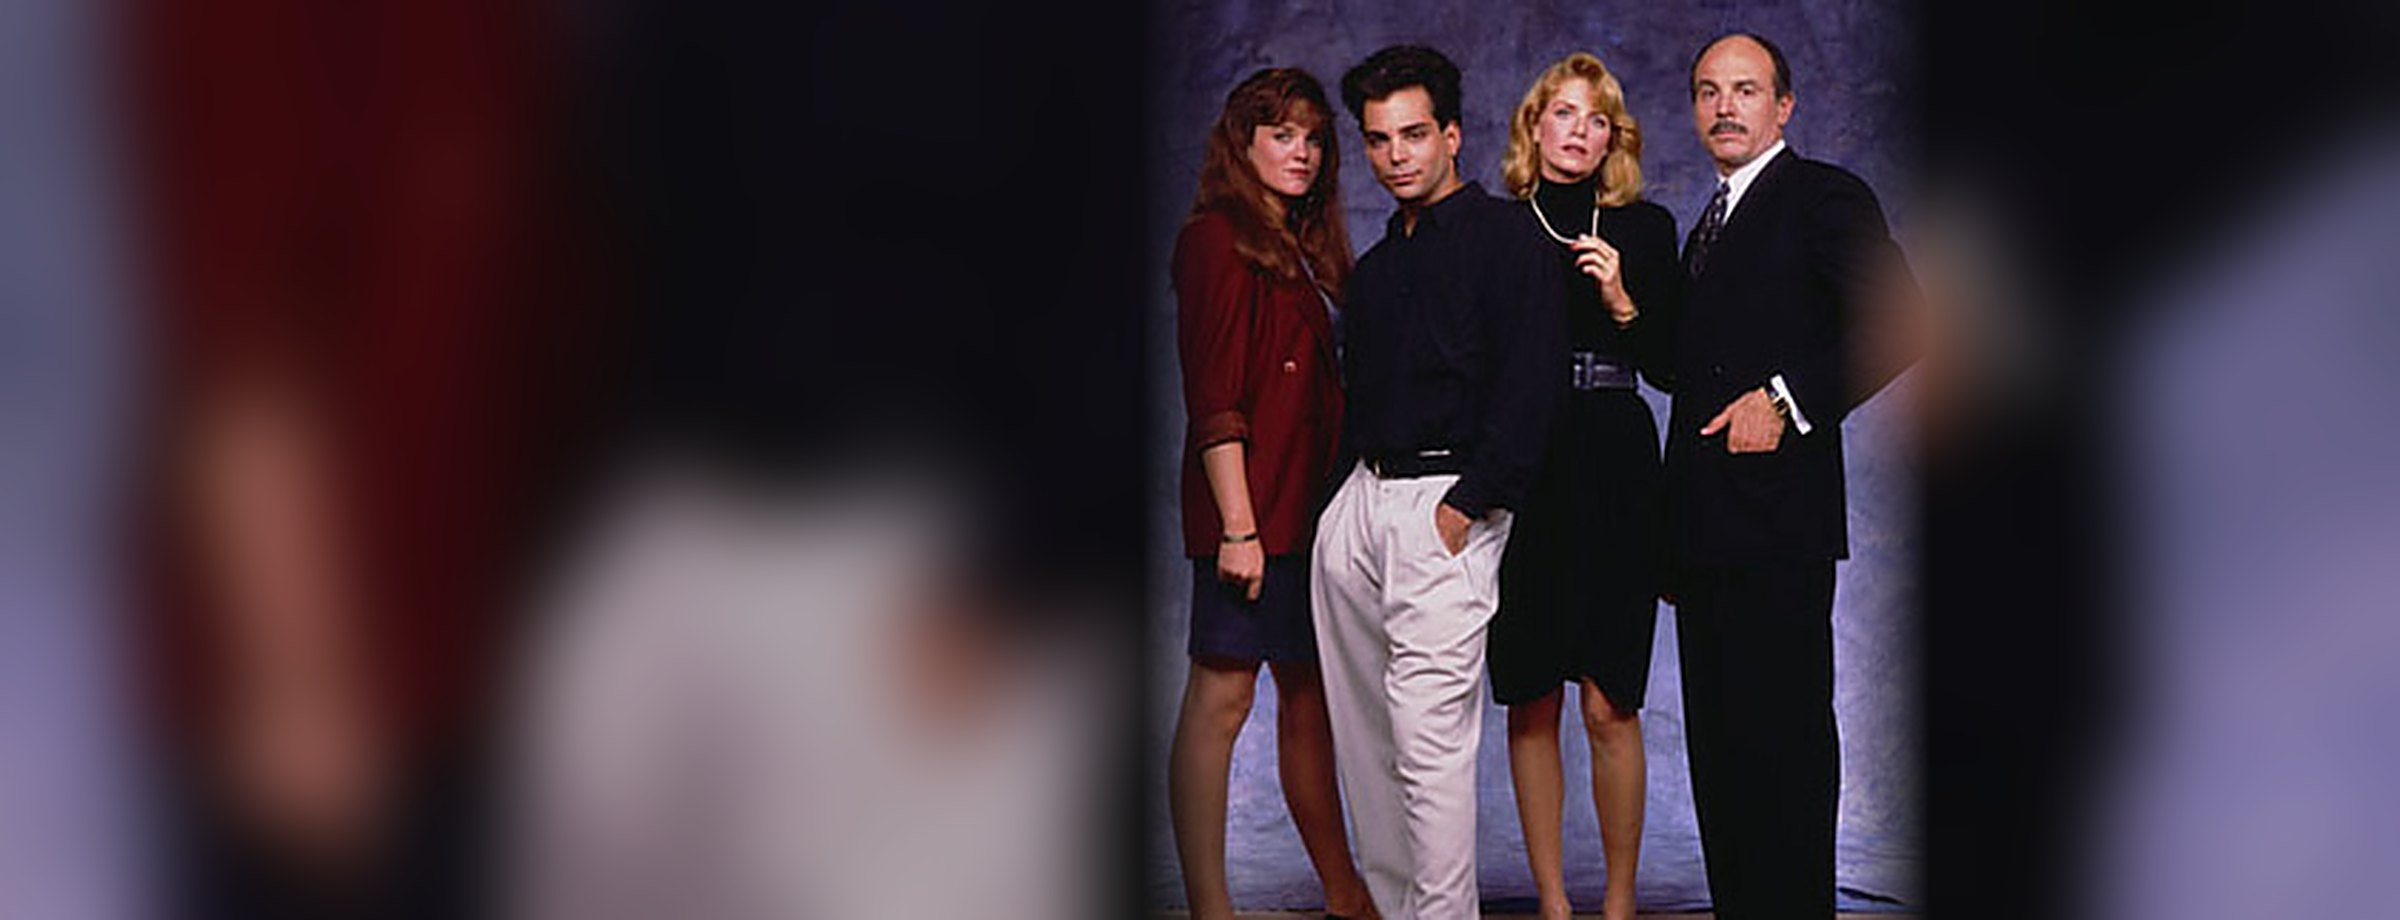
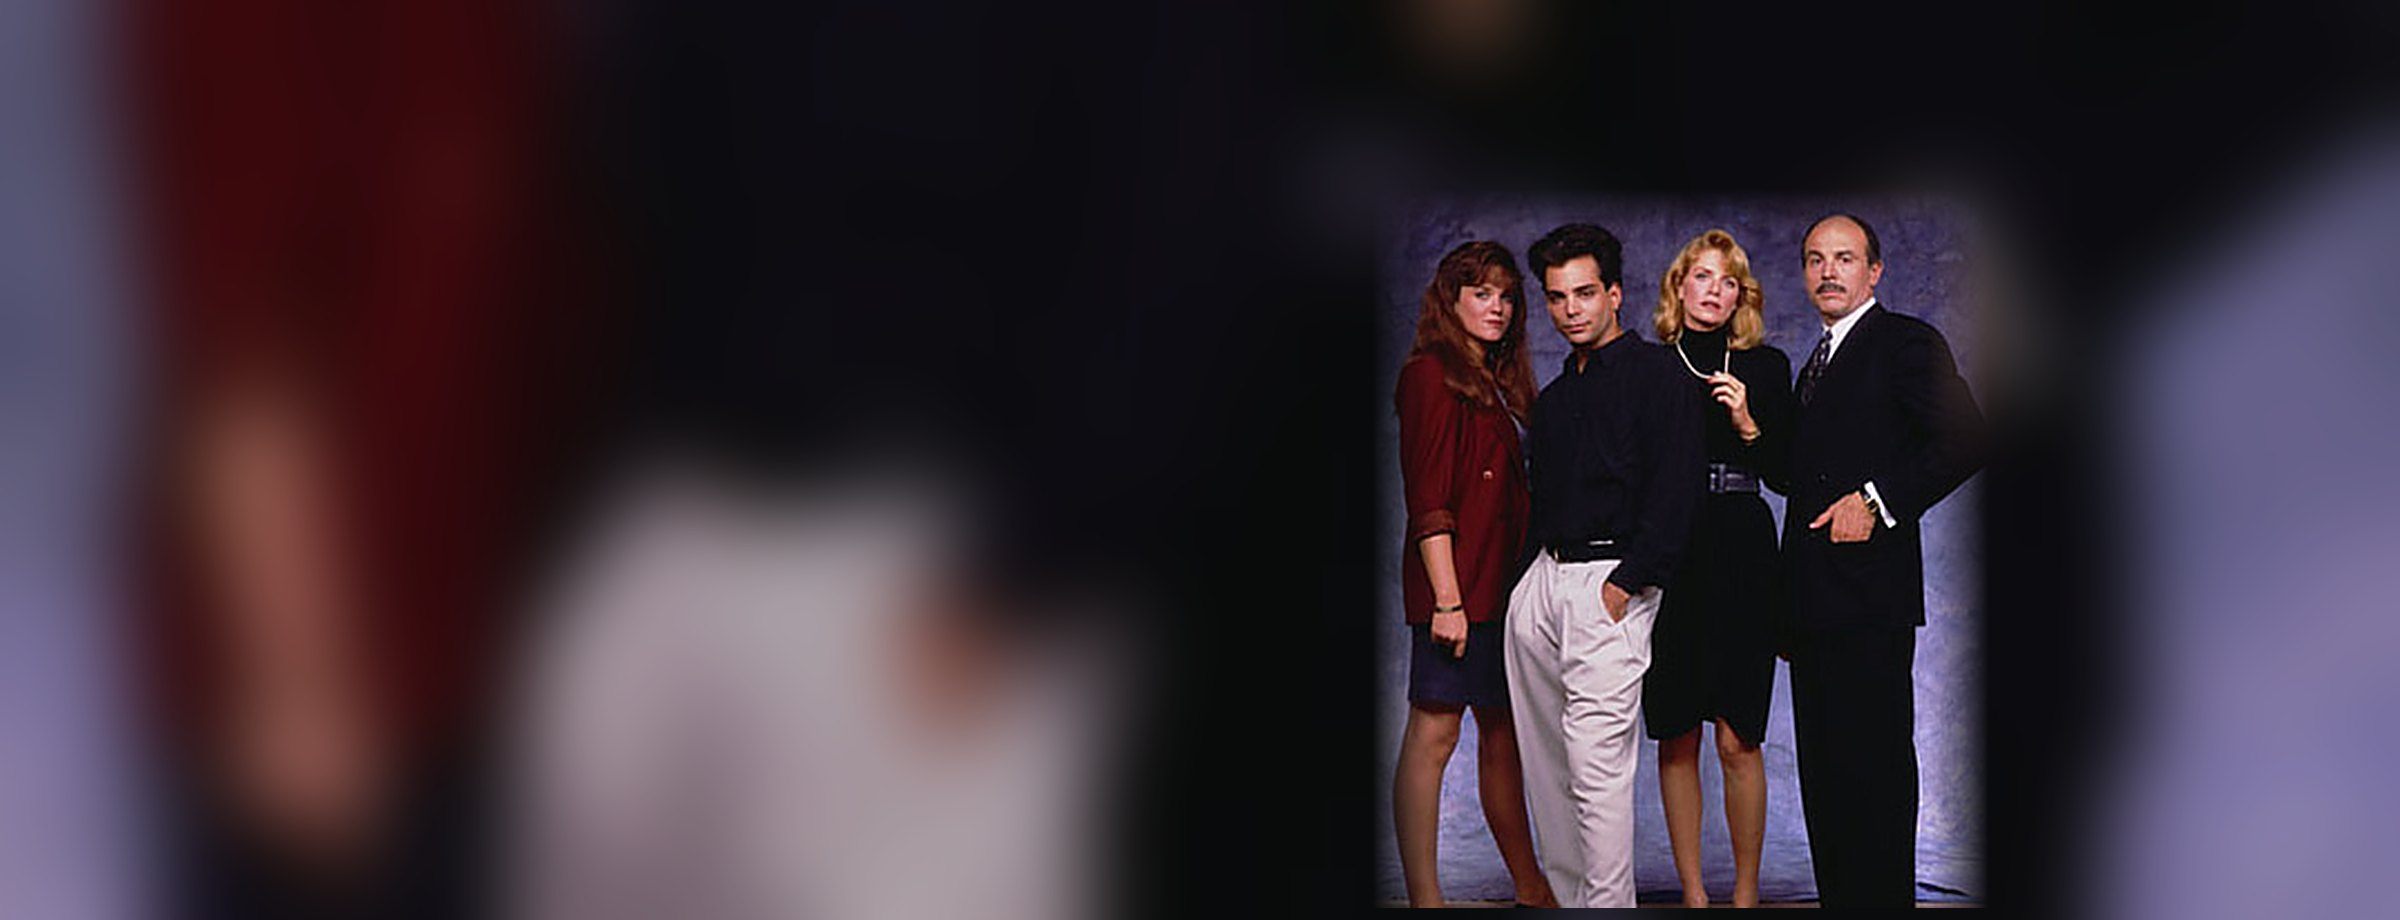
Add files via upload

Changed region(s): [[0.4688, 0.0, 0.8438, 1.0]]

diff --git a/series-ep01-mission-impossible.html b/series-ep01-mission-impossible.html
@@ -40,7 +40,7 @@
 
   <main id="contenu">
 
-  <section class="hero" style="--hero-img: url('mi-equipe-hero.jpg'); --hero-px: 68%;">
+  <section class="hero" style="--hero-img: url('mi-equipe-hero.jpg'); --hero-px: 76%;">
     <div class="hero-inner">
       <div class="ep-label">Séries TV cultes · Épisode 01 &nbsp;·&nbsp; Peter Graves — l'autorité tranquille</div>
       <h1 class="hero-title">Mission: Impossible</h1>

diff --git a/series-ep03-booker.html b/series-ep03-booker.html
@@ -40,7 +40,7 @@
 
   <main id="contenu">
 
-  <section class="hero" style="--hero-img: url('booker-cast-hero.jpg'); --hero-px: 68%;">
+  <section class="hero" style="--hero-img: url('booker-cast-hero.jpg'); --hero-px: 76%;">
     <div class="hero-inner">
       <div class="ep-label">Séries TV cultes · Épisode 03 &nbsp;·&nbsp; Richard Grieco avant le cinéma</div>
       <h1 class="hero-title">Booker</h1>
